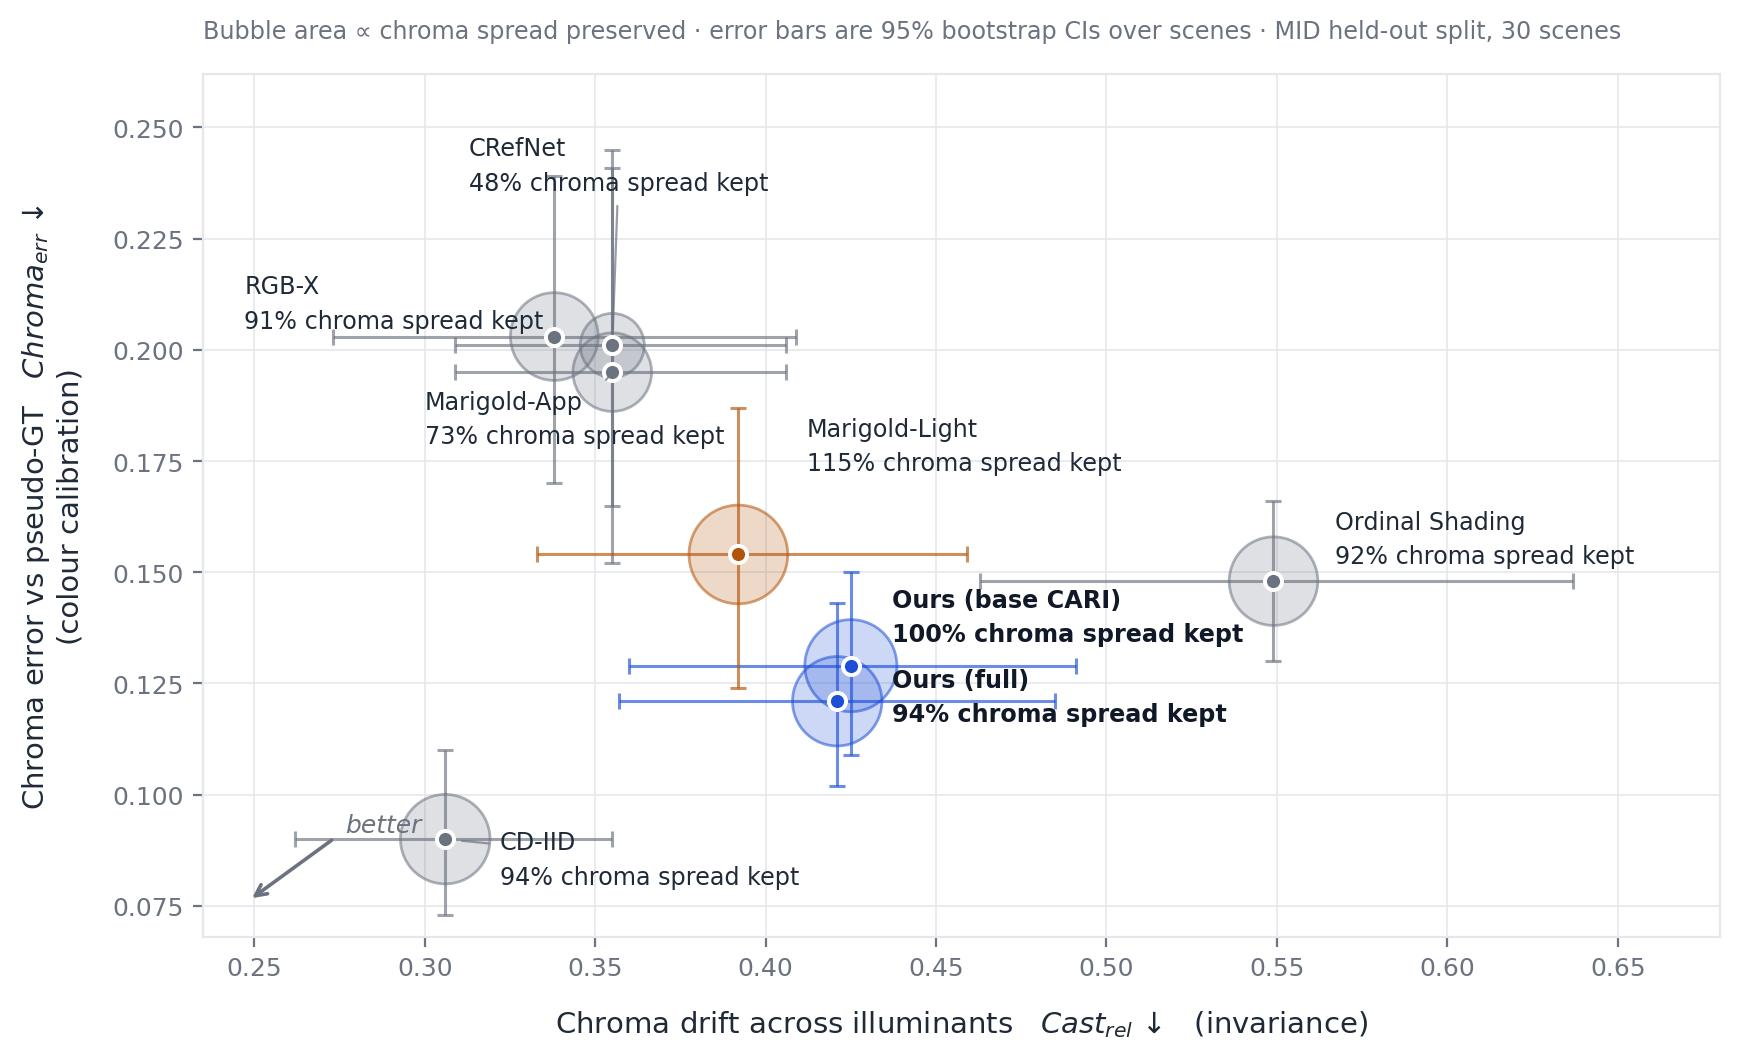
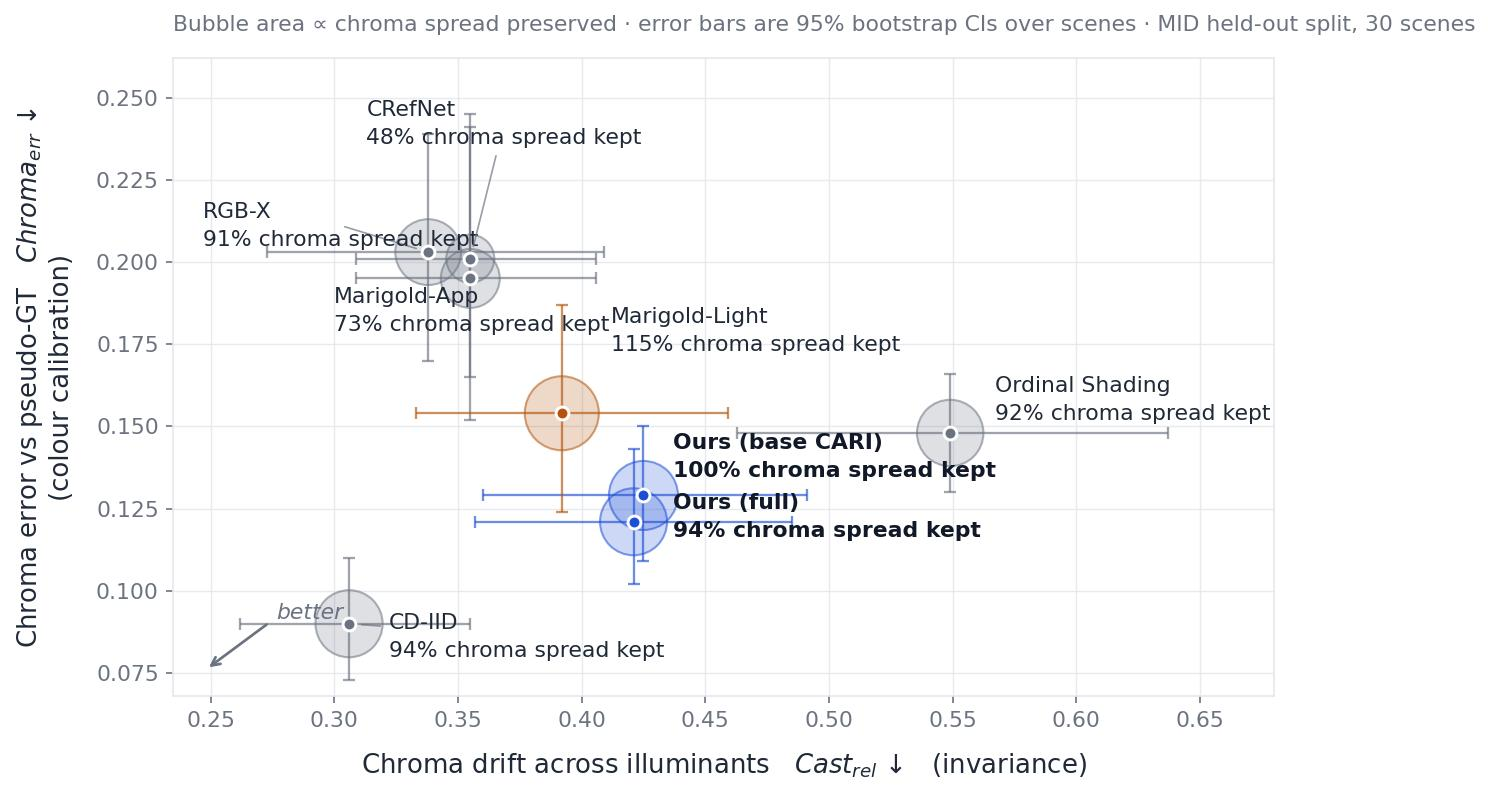
Add a legible zoom of the two tracked regions; enlarge plot fonts
Two things were checked and both needed fixing.

Font legibility: measured actual display scale via getBoundingClientRect()
rather than eyeballing. cari-paired.jpg was rendering at 0.42x -- the worst of
any figure on the page -- and the qualitative matrix's column labels were
fixed at 24px on a ~3400px canvas (9 columns), displaying around 7px.
Regenerated cari-paired.jpg and cari-tradeoff.jpg at higher DPI and font size;
made the matrix's label size proportional to panel width instead of a fixed
constant, so it won't regress next time a baseline is added.

Model coverage: build_all_models_light_matrix.py, the source of the main
qualitative figure, only had 5 of the now 7 local baselines -- missing
exactly CD-IID and RGB->X, the two the page's numbers now hinge on. A reader
could see the trade-off table but never see what CD-IID's albedo actually
looks like. Added both and regenerated (9 columns).

At user's request: tracked two fixed-scene regions (a mirror-finish
calibration sphere, a dark jacket) across every panel with coloured boxes.
Checked what they actually show before writing captions -- the sphere is
strong, honest evidence (Ours/Ordinal/CD-IID keep the reflection across all
three lights; CRefNet/Marigold-App/RGB->X blow it to flat white;
Marigold-Light swings black-grey-white, the least stable prediction on a
non-diffuse surface here). The jacket is weaker evidence: CD-IID is
comparably stable there. Wrote the caption to say both, not just the flattering
half.
[…]

diff --git a/research/cari/index.html b/research/cari/index.html
@@ -768,6 +768,24 @@
     /* BibTeX stays a dark code block -- code reads better inverted */
     .cari-footer { color: #6b7280; border-top-color: #e5e7eb; }
     .cari-footer a { color: #1d4ed8; }
+
+    /* Figures break out wider than the text column.
+
+       Text wants ~65-75 characters per line, which is the 1000px column. Wide
+       multi-panel figures do not: the all-methods matrix is 9 columns on a
+       ~3400px canvas, and at the text width its labels rendered around 7px.
+       Letting figures span 1240px lifts every one of them by ~30% and costs the
+       prose nothing. Falls back to full width once the viewport is narrower
+       than the breakout. */
+    @media (min-width: 1300px) {
+      .cari-figure,
+      .teaser-wrap,
+      .results-table-wrap {
+        width: 1240px;
+        margin-left: calc(50% - 620px);
+        margin-right: calc(50% - 620px);
+      }
+    }
   </style>
 
   <script src="https://code.jquery.com/jquery-latest.js" type="text/javascript"></script>
@@ -1308,10 +1326,26 @@
 
       <div class="cari-figure">
         <img src="../../images/research/cari-qualitative.jpg"
-             alt="Grid comparing input, ground-truth albedo, and predictions from our model, CRefNet, Marigold-App, Marigold-Light and Ordinal Shading across three lighting conditions of the same scene.">
+             alt="Grid comparing input, ground-truth albedo, and predictions from all seven methods across three lighting conditions of the same scene. Two regions are tracked with coloured boxes across every panel: a mirror-finish calibration sphere in red, and a dark jacket in blue.">
         <p class="fig-caption">
-          <strong>Held-out scene, three lamp settings.</strong> The methods differ in how much lamp
-          colour leaks into the material and how much genuine colour variation they keep.
+          <strong>Held-out scene, three lamp settings, all seven methods.</strong> Two regions are
+          boxed and tracked across every panel — a mirror-finish sphere (red) and a dark jacket
+          (blue) — both fixed in the scene, so any change between panels is the model's, not the
+          camera's. At this size the boxes are too small to read; zoomed below.
+        </p>
+      </div>
+
+      <div class="cari-figure">
+        <img src="../../images/research/cari-qualitative-crops.jpg"
+             alt="Full-resolution zoom of the mirror sphere and dark jacket regions, one row per method, one column per lamp setting. Ours, Ordinal Shading and CD-IID keep the sphere's reflection detail across all three lights; CRefNet, Marigold-App and RGB-to-X blow it out to flat white; Marigold-Light swings from near-black to grey to blown white.">
+        <p class="fig-caption">
+          <strong>The same two regions, at a size where the difference is legible.</strong>
+          The sphere is the sharper evidence: Ours, Ordinal Shading, and CD-IID keep its
+          reflection detail across all three lights, while CRefNet, Marigold-App, and RGB→X blow
+          it out to flat white, and Marigold-Light swings from near-black to grey to blown
+          white — the least stable prediction on a non-diffuse surface in this comparison. The
+          jacket is more equivocal: ours holds a consistent dark navy, and CD-IID is comparably
+          stable there, which is the same story the numbers already told.
         </p>
       </div>
 
